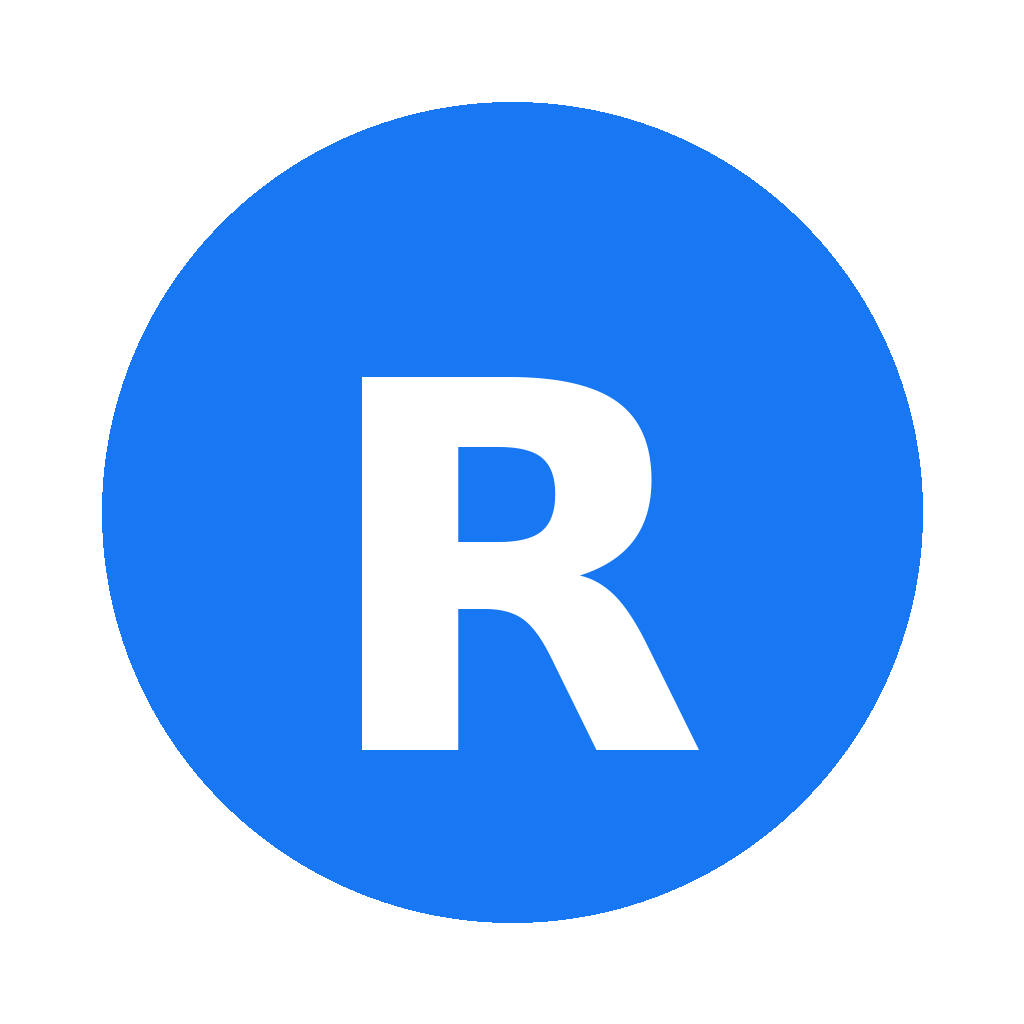
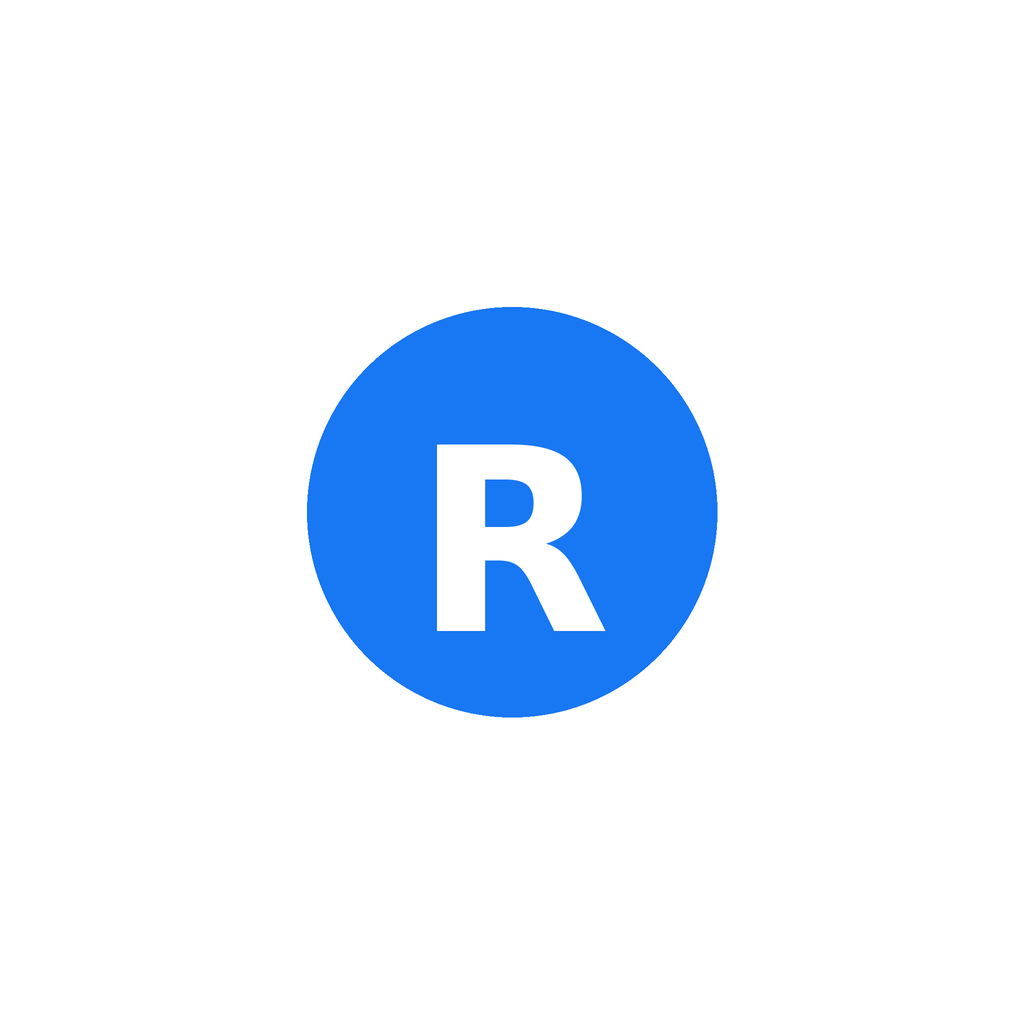
rasel

diff --git a/src/components/WebPhoneLayout.js b/src/components/WebPhoneLayout.js
@@ -1,22 +1,46 @@
 // src/components/WebPhoneLayout.js
-// Web এ সব screen কে phone-এর মতো centered দেখায় (max-width 390px)
+// Facebook-style responsive web layout
 import React from 'react';
 import { View, Platform, Dimensions, StyleSheet } from 'react-native';
 
 const SCREEN_W = Dimensions.get('window').width;
-const IS_WEB_WIDE = Platform.OS === 'web' && SCREEN_W > 500;
+const IS_WEB = Platform.OS === 'web';
+const IS_WEB_WIDE = IS_WEB && SCREEN_W > 768; // tablet/desktop breakpoint
 
 export default function WebPhoneLayout({ children, style }) {
+  // Mobile or narrow web — full screen (no change)
   if (!IS_WEB_WIDE) {
-    // Mobile / narrow web — full screen
     return <View style={[{ flex: 1 }, style]}>{children}</View>;
   }
 
-  // Wide web — phone frame centered
+  // Wide web — Facebook-style: sidebar + main content
   return (
     <View style={s.outerBg}>
-      <View style={s.phoneFrame}>
-        {children}
+      {/* Left sidebar — fixed width like Facebook */}
+      <View style={s.sidebar}>
+        <SidebarContent />
+      </View>
+
+      {/* Main content area — centered, max-width like Facebook feed */}
+      <View style={s.mainArea}>
+        <View style={s.contentWrap}>
+          {children}
+        </View>
+      </View>
+
+      {/* Right column — optional widgets */}
+      <View style={s.rightCol} />
+    </View>
+  );
+}
+
+// Sidebar placeholder — navigation items দেখাবে
+function SidebarContent() {
+  return (
+    <View style={s.sidebarInner}>
+      {/* App logo area */}
+      <View style={s.logoArea}>
+        <View style={s.logoCircle} />
       </View>
     </View>
   );
@@ -25,28 +49,64 @@ export default function WebPhoneLayout({ children, style }) {
 const s = StyleSheet.create({
   outerBg: {
     flex: 1,
-    backgroundColor: '#e4e6eb',
-    alignItems: 'center',
-    justifyContent: 'flex-start',
-    paddingTop: 24,
-    paddingBottom: 24,
+    flexDirection: 'row',
+    backgroundColor: '#f0f2f5', // Facebook-এর exact background color
   },
-  phoneFrame: {
-    width: 390,
-    maxWidth: 390,
-    flex: 1,
-    backgroundColor: '#fff',
-    borderRadius: 24,
-    overflow: 'hidden',
-    shadowColor: '#000',
-    shadowOffset: { width: 0, height: 8 },
-    shadowOpacity: 0.18,
-    shadowRadius: 24,
-    elevation: 16,
-    // Web-specific box shadow
+  // Left sidebar — 280px (Facebook-এর মতো)
+  sidebar: {
+    width: 280,
+    minWidth: 280,
+    backgroundColor: '#ffffff',
+    borderRightWidth: 1,
+    borderRightColor: '#e4e6eb',
     ...(Platform.OS === 'web' ? {
-      boxShadow: '0 8px 40px rgba(0,0,0,0.18)',
-      maxHeight: 'calc(100vh - 48px)',
+      position: 'sticky',
+      top: 0,
+      height: '100vh',
+      overflowY: 'auto',
+    } : {}),
+  },
+  sidebarInner: {
+    flex: 1,
+    padding: 8,
+  },
+  logoArea: {
+    padding: 16,
+    marginBottom: 8,
+  },
+  logoCircle: {
+    width: 40,
+    height: 40,
+    borderRadius: 20,
+    backgroundColor: '#1877f2',
+  },
+  // Center main content
+  mainArea: {
+    flex: 1,
+    backgroundColor: '#f0f2f5',
+    alignItems: 'center',
+    ...(Platform.OS === 'web' ? {
+      overflowY: 'auto',
+      height: '100vh',
+    } : {}),
+  },
+  contentWrap: {
+    width: '100%',
+    maxWidth: 680, // Facebook feed width
+    flex: 1,
+    ...(Platform.OS === 'web' ? {
+      minHeight: '100vh',
+    } : {}),
+  },
+  // Right column — 360px (Facebook-এর মতো)
+  rightCol: {
+    width: 360,
+    minWidth: 360,
+    backgroundColor: '#f0f2f5',
+    ...(Platform.OS === 'web' ? {
+      position: 'sticky',
+      top: 0,
+      height: '100vh',
     } : {}),
   },
 });

diff --git a/App.js b/App.js
@@ -3,7 +3,7 @@ import React, { useEffect, useRef } from 'react';
 import { NavigationContainer } from '@react-navigation/native';
 import { SafeAreaProvider } from 'react-native-safe-area-context';
 import { GestureHandlerRootView } from 'react-native-gesture-handler';
-import { View, ActivityIndicator, Platform } from 'react-native';
+import { View, ActivityIndicator, Platform, PermissionsAndroid, Alert, Linking } from 'react-native';
 
 import { AuthProvider, useAuth } from './src/hooks/useAuth';
 import ErrorBoundary from './src/components/ErrorBoundary';
@@ -15,11 +15,39 @@ import {
   setupCallKeep, showIncomingCall, endCallKeep, registerCallKeepListeners,
 } from './src/services/callKeepService';
 
+// ── Android 13+ dangerous permissions runtime request ────────────────────────
+async function requestAndroidPermissions() {
+  if (Platform.OS !== 'android') return;
+  try {
+    // CAMERA + MIC — WebRTC এর জন্য দরকার
+    await PermissionsAndroid.requestMultiple([
+      PermissionsAndroid.PERMISSIONS.CAMERA,
+      PermissionsAndroid.PERMISSIONS.RECORD_AUDIO,
+      PermissionsAndroid.PERMISSIONS.READ_PHONE_STATE,
+    ]);
+  } catch (e) {
+    console.warn('[Permissions] request failed:', e?.message);
+  }
+}
+
+// ── SYSTEM_ALERT_WINDOW — overlay permission (separate flow দরকার) ────────────
+async function requestOverlayPermission() {
+  if (Platform.OS !== 'android') return;
+  try {
+    // Android এ এই permission Settings থেকে manually দিতে হয়
+    // Direct API দিয়ে check করা যায় না সরাসরি, তাই Settings এ পাঠাই
+    const { canDrawOverlays } = await import('react-native').then(m => m.NativeModules || {});
+    // Fallback: just skip — CallKeep কাজ করবে overlay ছাড়াও
+  } catch (e) {
+    // non-fatal
+  }
+}
+
 // ── CallKeep setup — শুধু Android/iOS, delay দিয়ে ──────────────────────────
 if (Platform.OS !== 'web') {
   setTimeout(() => {
     setupCallKeep().catch(() => {});
-  }, 3000); // 2000 থেকে বাড়িয়ে 3000 — app fully load হওয়ার পর
+  }, 3000);
 }
 
 function RootApp() {
@@ -29,6 +57,13 @@ function RootApp() {
   const fcmUnsubRef = useRef(null);
   const callKeepUnsubRef = useRef(null);
   const pendingCallRef = useRef(null);
+
+  // ── App launch এ permissions request ──────────────────────────────────────
+  useEffect(() => {
+    if (Platform.OS === 'android') {
+      requestAndroidPermissions();
+    }
+  }, []);
 
   useEffect(() => {
     // শুধু native + user logged in হলে চালাও
@@ -40,10 +75,8 @@ function RootApp() {
     registerForPushNotifications(user.uid).catch(() => {});
 
     // ── 2. FCM — async দিয়ে load করো, require() সরাসরি না ──────────────────
-    // কারণ: @react-native-firebase/messaging prebuild ছাড়া crash করে
     const setupFCM = async () => {
       try {
-        // Dynamic import — crash হলেও app বন্ধ হবে না
         const messagingModule = await import('@react-native-firebase/messaging');
         const messaging = messagingModule.default;
 
@@ -102,12 +135,10 @@ function RootApp() {
         }
 
       } catch (fcmErr) {
-        // FCM load failed — এটা non-fatal, app চলতে থাকবে
         console.warn('[FCM] setup skipped:', fcmErr?.message);
       }
     };
 
-    // FCM setup একটু delay দিয়ে করো — navigation ready হওয়ার পর
     const fcmTimer = setTimeout(setupFCM, 1000);
 
     // ── 3. CallKeep listeners ────────────────────────────────────────────────